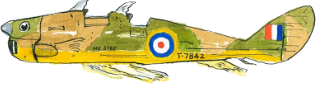
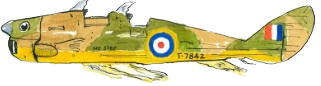
refactored fetch call to be await instead of .then. Also added in 7 second refresh timer and 20 more images.

diff --git a/Assignment_3c/PROG2700-Assignment3-StarterCode-Flight/main.js b/Assignment_3c/PROG2700-Assignment3-StarterCode-Flight/main.js
@@ -1,13 +1,13 @@
 // IIFE
 (() => {
-    //creating icon variables
-    const p_planeIcons = [1,2,3,4,5].map(p_num =>
-  L.icon({
-    iconUrl: `images/fish${p_num}.png`,
-    iconSize: [40, 40],
-    iconAnchor: [20, 20]
-  })
-);
+    //creating icon variables ~~ mapping file numbers to a function with object of size, anchor, url thats tied to a variable
+    const p_planeIcons = [1,2,3,4,5,6,7,8,9,10,11,12,13,14,15,16,17,18,19,20,21,22,23,24,25,26,27,28,29].map(p_num => 
+    L.icon({
+        iconUrl: `images/fish${p_num}.png`,
+        iconSize: [94, 40],
+        iconAnchor: [47, 20]
+        })
+    );
 
    //create map in leaflet and tie it to the div called 'theMap'
    //Create a map layer from the api of maps
@@ -23,25 +23,36 @@
     //set a random marker at halifax exactly
     L.marker([44.65336419266691, -63.588753507345444]).addTo(map)
         .bindPopup('This is a sample popup.');
+    
+    const api_url = "https://prog2700.onrender.com/opensky";
+    const refreshInterval = 7000; // 7 seconds in milliseconds
 
-    //fetch the flight data
-    fetch("https://prog2700.onrender.com/opensky")
-    .then((response) => response.json())
-    .then((json) => {
-        console.log(json);
-        const p_canadian = getCanadianFlights(json)
-        const p_geo = geoJsonConvertor(p_canadian);
-        
-        // pick ONE icon
-        const p_randomIndex = Math.floor(Math.random() * p_planeIcons.length);
-        const p_randomIcon = p_planeIcons[p_randomIndex];
+    async function fetchData(url) {
+        try {
+            const response = await fetch(url);
+            if (!response.ok) {
+                throw new Error(`Error ${response.status}: ${response.statusText}`);
+            }
 
-        L.geoJSON(p_geo, {
-            pointToLayer: function(p_feature, p_latlng) {
-                const p_props = p_feature.properties //enables me to use those properties later
-                const p_heading = Number(p_props.Heading) || 0; //this is the heading information pulled from the original json
+            const json = await response.json();
+            console.log(json);
+            const p_canadian = getCanadianFlights(json)
+            const p_geo = geoJsonConvertor(p_canadian);
                 
-                // ✅ pick a fish PER feature (icon diversity)
+            // pick ONE icon
+            const p_randomIndex = Math.floor(Math.random() * p_planeIcons.length);
+            const p_randomIcon = p_planeIcons[p_randomIndex];
+    
+            L.geoJSON(p_geo, {
+                pointToLayer: function(p_feature, p_latlng) {
+                    const p_props = p_feature.properties //shortcut to use those properties later
+                    const p_heading = Number(p_props.Heading) || 0; //this is the heading information pulled from the original json
+                    const p_offset = 90;
+                    const p_angle = Number.isFinite(p_heading) 
+                        ? p_heading + p_offset //ternary operator shortcut. if its a real number (not null, undefined, NaN, Infinity) then its 90 
+                        : 0; //else the angle is 0
+
+                // pick a fish PER feature (icon diversity)
                 const p_randomIndex = Math.floor(Math.random() * p_planeIcons.length);
                 const p_randomIcon = p_planeIcons[p_randomIndex];
 
@@ -57,12 +68,21 @@
                         Velocity: ${p_props.Velocity}
                     `);
             }
-        }).addTo(map); //layering the pointers over the map
+            }).addTo(map); //layering the pointers over the map
 
-        console.log("type", p_geo.type);// "FeatureCollection"
-        console.log("number of flights:", p_geo.features.length);//number of planes from canada
-        console.log("first listed flight", p_geo.features[0]); 
-        });
+                console.log("type", p_geo.type);// "FeatureCollection"
+                console.log("number of flights:", p_geo.features.length);//number of planes from canada
+                console.log("first listed flight", p_geo.features[0]); 
+                console.log(json);
+        
+        } catch (error) {
+            console.error("Error fetching data:", error);
+            // Implement retry logic or stop refreshing if needed
+        } finally {
+            // Schedule the next call after the current one completes
+            setTimeout(() => fetchData(url), refreshInterval); //  //now refreshes every 7 seconds
+        }
+    }
 
     //function to parse the flight data for only flights departing canada (filtering for that array position)
     function getCanadianFlights(json){
@@ -99,4 +119,6 @@
             };
         return geo_wrapper;
     }  
+
+fetchData(api_url).then(p_data => console.log("returned:", p_data));
 })();
